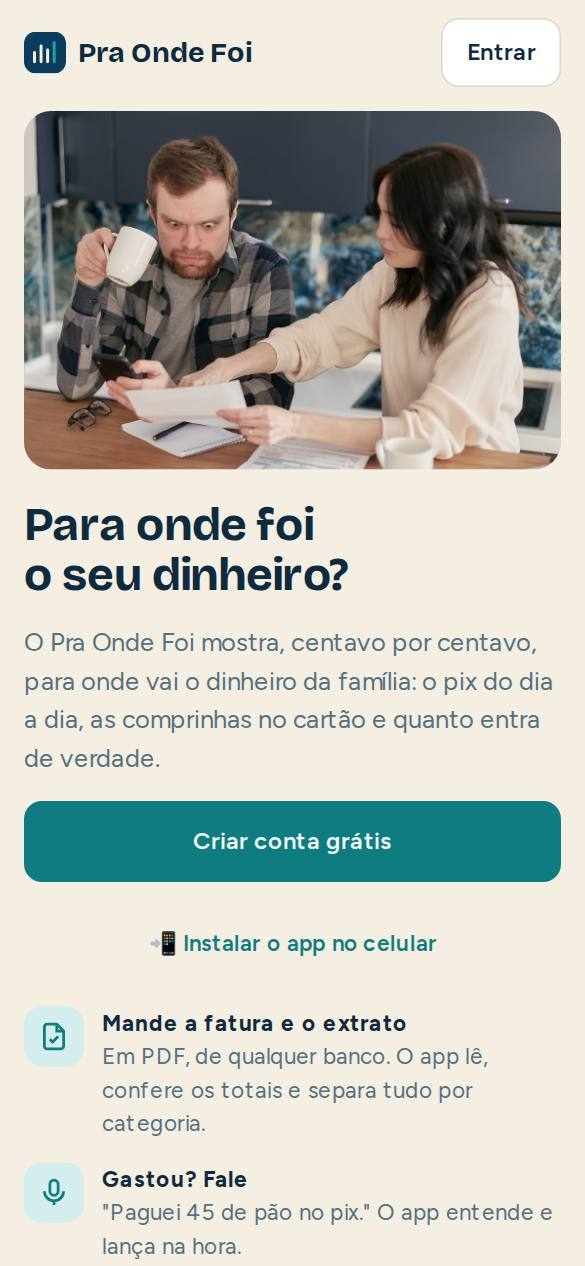
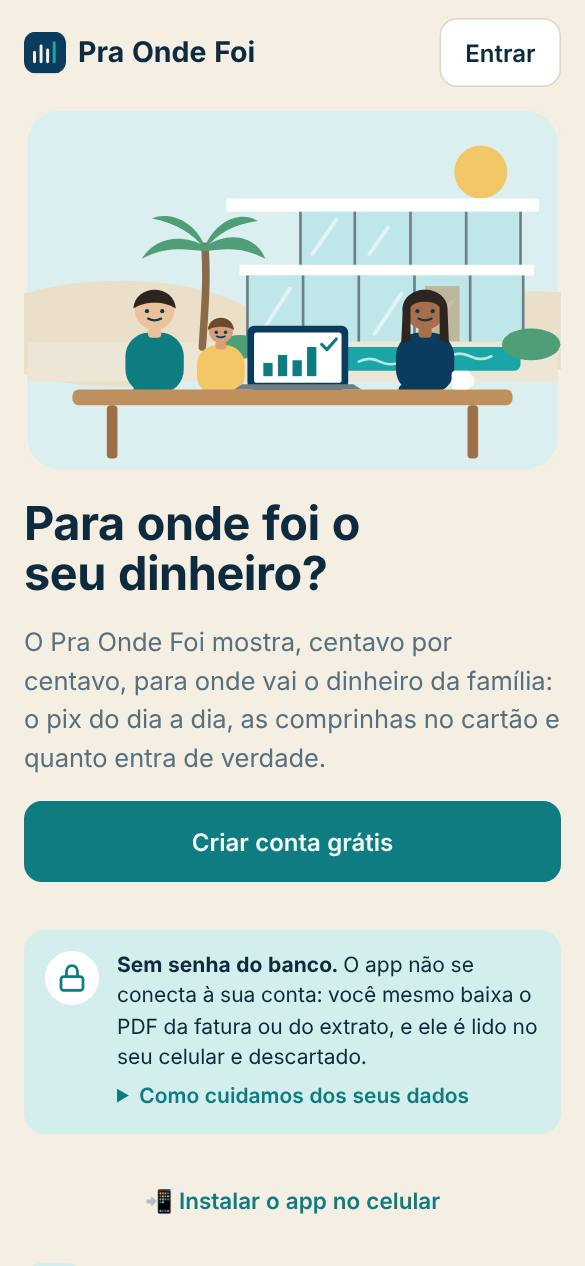
v88: trust seal (no bank password) on landing, sign in and Lançar; backlog reorganized by the study (order, merges, archived)
Claude-Session: https://claude.ai/code/session_01HTxyDPPEQrF1SknoQ9axHM

diff --git a/public/js/lib/releases.js b/public/js/lib/releases.js
@@ -259,4 +259,39 @@ export const RELEASES = [
     { id: 'selo_de_confianca', title: 'Selo de confiança na entrada: sem senha do banco', status: 'ideia', origin: 'Pesquisa de dores (nov/2026)', effort: 'P', problem: 'Só 37% compartilham dados pelo Open Finance; 56% têm medo de golpe (Lina Open X 2025)', cost: false, notes: 'Na página inicial e no primeiro Lançar: "Não pedimos senha do banco nem acesso à conta. O PDF é lido no seu celular e descartado." Com link para Sobre o app.', from: [] },
     { id: 'historico_de_outros_apps', title: 'Trazer o histórico de outros apps (Mobills, Organizze)', status: 'ideia', origin: 'Pesquisa de dores (nov/2026)', effort: 'P', problem: 'Quem desistiu de outros apps leva o histórico consigo', cost: false, notes: 'Testar a planilha com os arquivos que esses apps exportam (CSV ou Excel) e ajustar as colunas; citar na comunicação.', from: [] },
   ] },
+  { id: 'r88', version: 'v88', at: '2026-11-04T19:48:00Z', backlog: [], news: { id: 'n20261104j', title: 'Sem senha do banco, sempre', items: [
+    'O Pra Onde Foi nunca pede a senha do seu banco nem se conecta à sua conta. Agora isso aparece logo na entrada e em Lançar.',
+    'Você mesmo baixa o PDF da fatura ou do extrato no app do banco; ele é lido no seu celular e descartado.',
+  ] }, updateDocs: [DOC_DORES], updateBacklog: [
+    { id: 'selo_de_confianca', set: { status: 'feito' } },
+    { id: 'lembrete_mandar_fatura', set: { status: 'agora', ordem: 1 } },
+    { id: 'pesquisa_no_app', set: { status: 'agora', ordem: 2 } },
+    { id: 'saude_do_servidor', set: { status: 'agora', ordem: 3, title: 'Saúde do servidor e erros das rotinas automáticas na Central' } },
+    { id: 'erros_do_servidor_na_central', set: { status: 'descartado', notes: 'Juntado em "Saúde do servidor e erros das rotinas automáticas na Central".' } },
+    { id: 'historico_de_outros_apps', set: { status: 'agora', ordem: 4 } },
+    { id: 'saques_e_dinheiro_vivo', set: { status: 'agora', ordem: 5 } },
+    { id: 'retrospectiva_do_ano', set: { status: 'proximo', ordem: 1, notes: 'Pronta no começo de dezembro: motivo para voltar e compartilhar.' } },
+    { id: 'parcelas_ja_comprometidas_nos_proximos_m', set: { status: 'proximo', ordem: 2 } },
+    { id: 'juros_e_tarifas_da_fatura', set: { status: 'proximo', ordem: 3 } },
+    { id: 'previsao_do_fim_do_mes_vai_sobrar', set: { status: 'proximo', ordem: 4 } },
+    { id: 'caixa_a_revisar_que_chega_a_zero', set: { status: 'proximo', ordem: 5, title: 'Caixa "a revisar" que chega a zero, com a revisão de domingo' } },
+    { id: 'revisao_de_domingo_5_minutos', set: { status: 'descartado', notes: 'Juntado em "Caixa a revisar que chega a zero, com a revisão de domingo".' } },
+    { id: 'gastos_anuais_previstos_ipva_iptu_matric', set: { status: 'proximo', ordem: 6, notes: 'Antes de janeiro.' } },
+    { id: 'resultado_antes_da_conta', set: { status: 'proximo', ordem: 7, notes: 'Depois de ouvir os primeiros testadores.' } },
+    { id: 'meu_seu_nosso_lancamentos_e_contas_priva', set: { status: 'proximo', ordem: 8 } },
+    { id: 'revisao_de_custos_planos', set: { status: 'proximo', ordem: 9 } },
+    { id: 'e_mail_proprio_resend_e_religar_confirma', set: { status: 'depois', ordem: 1, notes: 'Antes de abrir ao público: o limite de e-mails do Supabase impede crescer.' } },
+    { id: 'notificacoes_do_banco_android', set: { status: 'depois', ordem: 2, notes: 'Primeiro passo: o teste com o MacroDroid.' } },
+    { id: 'lancamento_automatico_pelas_notificacoes', set: { status: 'descartado', notes: 'Duplicado de "Lançamento automático pelas notificações do banco (Android)".' } },
+    { id: 'macrodroid_teste_notificacoes', set: { status: 'depois', ordem: 3 } },
+    { id: 'lancar_pelo_email_do_banco', set: { status: 'depois', ordem: 4 } },
+    { id: 'whatsapp_lancar', set: { status: 'depois', ordem: 5 } },
+    { id: 'open_finance_dados_automaticos_do_banco', set: { status: 'depois', ordem: 6 } },
+    { id: 'app_nas_lojas_play_store_app_store', set: { status: 'depois', ordem: 7 } },
+    { id: 'versao_web_mais_simples', set: { status: 'depois', ordem: 8 } },
+    { id: 'plano_pago_modelo_de_negocio', set: { status: 'depois', ordem: 9 } },
+    { id: 'cobranca_honesta_teste_sem_cartao_aviso_', set: { status: 'depois', ordem: 10 } },
+    { id: 'parcerias_e_servicos', set: { status: 'depois', ordem: 11 } },
+    { id: 'encaminhar_a_fatura_por_e_mail', set: { status: 'descartado', notes: 'Arquivado: conflita com a regra de não guardar o PDF e com faturas com senha.' } },
+  ] },
 ];

diff --git a/public/index.html b/public/index.html
@@ -36,6 +36,12 @@ try { var t = localStorage.getItem('fin.theme') || 'light'; if (t !== 'auto') do
   <h1>Para onde foi o seu dinheiro?</h1>
   <p class="lead">O Pra Onde Foi mostra, centavo por centavo, para onde vai o dinheiro da família: o pix do dia a dia, as comprinhas no cartão e quanto entra de verdade.</p>
   <div class="land-cta"><button class="btn primary" type="button" id="wSignup">Criar conta grátis</button></div>
+  <div class="trust" id="wTrust"><span class="trust-ico"><svg viewBox="0 0 24 24" width="22" height="22" fill="none" stroke="currentColor" stroke-width="2" stroke-linecap="round" stroke-linejoin="round" aria-hidden="true"><rect x="4" y="11" width="16" height="10" rx="2"/><path d="M8 11V7a4 4 0 0 1 8 0v4"/></svg></span><div><strong>Sem senha do banco.</strong> O app não se conecta à sua conta: você mesmo baixa o PDF da fatura ou do extrato, e ele é lido no seu celular e descartado.
+    <details><summary>Como cuidamos dos seus dados</summary><ul>
+      <li>Nunca pedimos a senha do banco nem acesso à conta (não usamos Open Finance).</li>
+      <li>O arquivo da fatura, a senha do PDF e as fotos não são guardados.</li>
+      <li>Os lançamentos ficam só com a sua família, e dá para apagar tudo quando quiser.</li>
+      <li>Se alguém pedir a senha do seu banco em nome do Pra Onde Foi, não é o app.</li></ul></details></div></div>
   <button class="linkbtn" type="button" id="wInstall" hidden>📲 Instalar o app no celular</button>
   <ul class="land-feats">
     <li><span class="fi"><svg viewBox="0 0 24 24" fill="none" stroke="currentColor" stroke-width="2"><path d="M14 3H7a2 2 0 0 0-2 2v14a2 2 0 0 0 2 2h10a2 2 0 0 0 2-2V8z"/><path d="M14 3v5h5M9 14l2 2 4-4"/></svg></span><span><strong>Mande a fatura e o extrato</strong><br>Em PDF, de qualquer banco. O app lê, confere os totais e separa tudo por categoria.</span></li>
@@ -43,7 +49,7 @@ try { var t = localStorage.getItem('fin.theme') || 'light'; if (t !== 'auto') do
     <li><span class="fi"><svg viewBox="0 0 24 24" fill="none" stroke="currentColor" stroke-width="2"><path d="M4 20V10M10 20V4M16 20v-7M22 20H2"/></svg></span><span><strong>Veja quanto sobra</strong><br>Quanto entrou, quanto saiu e para onde foi, mês a mês.</span></li>
     <li><span class="fi"><svg viewBox="0 0 24 24" fill="none" stroke="currentColor" stroke-width="2"><circle cx="9" cy="8" r="3"/><circle cx="17" cy="9" r="2.5"/><path d="M3 20a6 6 0 0 1 12 0M14 20a4 4 0 0 1 7 0"/></svg></span><span><strong>Use em família</strong><br>Convide quem divide as contas com um link no WhatsApp.</span></li>
   </ul>
-  <p class="tiny muted" style="text-align:center">Seus dados ficam só com a sua família. PDFs e senhas não são guardados.</p>
+  <p class="tiny muted" style="text-align:center">Seus dados ficam só com a sua família. Funciona com qualquer banco.</p>
 </section>
 
 <!-- ENTRAR -->
@@ -51,6 +57,7 @@ try { var t = localStorage.getItem('fin.theme') || 'light'; if (t !== 'auto') do
   <button class="tour-skip" type="button" id="aBack" style="align-self:flex-start">← Voltar</button>
   <div class="brandbig">Pra Onde Foi</div>
   <p class="muted">Entre ou crie sua conta para começar.</p>
+  <p class="trust-line small" id="aTrust"><svg viewBox="0 0 24 24" width="16" height="16" fill="none" stroke="currentColor" stroke-width="2" stroke-linecap="round" stroke-linejoin="round" aria-hidden="true"><rect x="4" y="11" width="16" height="10" rx="2"/><path d="M8 11V7a4 4 0 0 1 8 0v4"/></svg> Nunca pedimos a senha do seu banco.</p>
   <div class="banner ok" id="aInvite" hidden></div>
   <form class="panel stack" id="authForm" novalidate>
     <div class="chips" role="tablist">

diff --git a/public/js/admin/content.js b/public/js/admin/content.js
@@ -35,6 +35,7 @@ export const SERVICES = [
   sv('split', 'Quem paga o quê', 'Quanto cada um pagou e o acerto do mês', 'Menu → Quem paga o quê', 'no_ar', 'gratis', 'nao', '—', ['menu.divisao']),
   sv('fam', 'Família e convites', 'Convite pelo WhatsApp; todos veem os mesmos números', 'Menu → Família', 'no_ar', 'gratis', 'nao', 'Supabase Auth', ['menu.familia']),
   sv('push', 'Notificações', 'Um aviso por dia no máximo e resumo de domingo; avisos da família', 'Menu → Notificações', 'no_ar', 'gratis', 'nao', 'Web Push; Vercel Cron', ['menu.avisos', 'aviso.tocou', 'avisos.ligou', 'avisos.teste_chegou', 'avisos.teste_nao_chegou', 'avisos.teste_nao_mostrou', 'avisos.teste_bloqueado']),
+  sv('confianca', 'Selo "sem senha do banco"', 'Deixa claro, logo na entrada, que o app não se conecta ao banco nem pede a senha: o PDF é lido no celular e descartado (a 2ª maior dor da pesquisa)', 'Página inicial, tela de entrar e Lançar → Fatura ou extrato', 'no_ar', 'gratis', 'nao', 'Nenhuma', []),
   sv('push_convite', 'Convite para ligar as notificações', 'Se as notificações estão desligadas ou bloqueadas no celular, o app avisa (1 vez por dia, até 7 vezes, ao abrir ou voltar do bloqueio) e leva para Notificações; o menu mostra "Desligadas"', 'Pop-up ao abrir o app; menu ☰', 'no_ar', 'gratis', 'nao', 'Estado do Web Push no próprio aparelho', ['avisos.convite_sim', 'avisos.convite_nao']),
   sv('priv', 'Modo privacidade', 'Esconde todos os valores', 'Olho no topo', 'no_ar', 'gratis', 'nao', '—', ['privacidade']),
   sv('pat', 'Patrimônio e dívidas', 'Investimentos, bens, financiamentos e projeção do sonho', 'Menu → Patrimônio', 'no_ar', 'gratis', 'nao', '—', ['menu.patrimonio']),

diff --git a/public/js/admin/admin.js b/public/js/admin/admin.js
@@ -223,7 +223,7 @@ function backlog(el) {
       <div><button class="btn primary" type="button" id="nAdd">Adicionar</button></div></div></details>
     ${view === 'lista' ? `<div class="chips">${[['', 'Todos'], ...Object.entries(STATUS), ['bug', 'Bugs']].map(([k, v]) => `<button class="chip" type="button" data-f="${k}" aria-pressed="${filter === k}">${v} <span class="tiny muted">${k === 'bug' ? items.filter(i => i.tipo === 'bug').length : k ? items.filter(i => i.status === k).length : items.length}</span></button>`).join('')}</div>
       <div class="blist">${shown.map(rowHTML).join('') || '<p class="small muted">Nada aqui.</p>'}</div>`
-    : `<div class="kanban">${['agora', 'proximo', 'ideia', 'depois', 'feito'].map(s => `<section class="kcol"><h3>${STATUS[s]} <span class="tiny muted">${items.filter(i => i.status === s).length}</span></h3>${items.filter(i => i.status === s).map(cardHTML).join('')}</section>`).join('')}</div>`}`;
+    : `<div class="kanban">${['agora', 'proximo', 'ideia', 'depois', 'feito'].map(s => `<section class="kcol"><h3>${STATUS[s]} <span class="tiny muted">${items.filter(i => i.status === s).length}</span></h3>${items.filter(i => i.status === s).sort((a, b) => (a.ordem ?? 99) - (b.ordem ?? 99)).map(cardHTML).join('')}</section>`).join('')}</div>`}`;
   el.querySelectorAll('[data-v]').forEach(b => b.onclick = () => { view = b.dataset.v; backlog(el); });
   el.querySelectorAll('[data-f]').forEach(b => b.onclick = () => { filter = b.dataset.f; backlog(el); });
   el.querySelectorAll('[data-st]').forEach(s => s.onchange = async e => {

diff --git a/public/js/lib/docsections.js b/public/js/lib/docsections.js
@@ -118,5 +118,11 @@ export const DOC_DORES = { id: 'pesquisa_dores', title: 'Pesquisa: as dores de q
 - "Funciona com qualquer banco e nunca pede a senha do banco."
 - "Todas as faturas de todos os cartões num lugar só, e o quanto sobrou no mês."
 - "Quanto dá para gastar por dia até a fatura fechar."
+## Feito a partir do estudo
+- v88: selo "sem senha do banco" na página inicial, na tela de entrar e em Lançar.
+## Ordem do backlog (aprovada em 04/11/2026)
+- Agora: lembrete para mandar a fatura, pesquisa no app, saúde do servidor, histórico de outros apps, saques e dinheiro vivo.
+- Próximo: retrospectiva do ano (começo de dezembro), parcelas comprometidas, juros da fatura, previsão do fim do mês, caixa a revisar, gastos anuais (antes de janeiro), resultado antes da conta, meu-seu-nosso, revisão de custos.
+- Depois: e-mail próprio (antes de abrir ao público), notificações do banco, e-mail do banco, WhatsApp, Open Finance, lojas, versão web, plano pago, cobrança honesta, parcerias.
 ## Ideias que foram para o backlog
 Lembrete para mandar a fatura quando ela fecha; juros e tarifas da fatura em destaque; saques e dinheiro vivo; ver o resultado antes de criar a conta; selo de confiança na entrada; trazer o histórico de outros apps. As parcelas já comprometidas (já no backlog) ganharam peso com a pesquisa.` };

diff --git a/public/js/lib/testbook.js b/public/js/lib/testbook.js
@@ -31,6 +31,9 @@ export const TESTS = [
   t('o_que_mandar', 'Lançar', 'v84', 'ambos', 'Fica claro que dá para mandar vários arquivos e planilha',
     ['Lançar: veja o botão Fatura ou extrato.', 'Toque nele e leia a caixa "O que dá para mandar".', 'Toque em "Como marcar vários arquivos no celular?" e siga o passo do seu celular.'],
     'O botão tem o selo "Vários de uma vez"; a caixa mostra faturas, extrato, planilha e foto; dá para marcar vários arquivos no seletor e a fila mostra "Arquivo 1 de N".', true),
+  t('selo_confianca', 'Lançar', 'v88', 'ambos', 'Selo "sem senha do banco"',
+    ['Saia da conta e veja a página inicial.', 'Toque em "Como cuidamos dos seus dados".', 'Toque em Entrar.', 'Já dentro, abra Lançar → Fatura ou extrato.'],
+    'A página inicial mostra o selo com o cadeado e os 4 cuidados; a tela de entrar diz "Nunca pedimos a senha do seu banco"; Lançar repete que o arquivo é lido no celular e descartado.', true),
   t('anotacao', 'Extrato', 'v59', 'ambos', 'Anotar um lançamento e o app lembrar',
     ['Extrato → Anotar num lançamento → escreva e marque "lembrar".', 'Mande a fatura do mês seguinte.'],
     'Na revisão, o mesmo lançamento já vem anotado; a busca acha pela anotação.', true),

diff --git a/public/sw.js b/public/sw.js
@@ -1,6 +1,6 @@
 // Service worker: caches the app shell so it opens fast and installs as an app.
 // Data and /api calls always go to the network.
-const VERSION = 'v87';
+const VERSION = 'v88';
 const SHELL = ['/', '/index.html', '/css/app.css', '/js/main.js', '/js/db.js', '/js/ai.js', '/js/ui.js', '/js/state.js', '/js/speech.js', '/js/tour.js', '/js/steps.js', '/js/onboarding.js', '/js/art.js', '/js/install.js', '/js/push.js', '/js/metrics.js', '/js/privacy.js', '/js/lib/recurring.js', '/js/lib/settle.js', '/js/photos.js', '/js/menu.js', '/js/coach.js', '/js/views/graficos.js', '/js/views/fechar.js', '/js/lib/closing.js', '/js/lib/charts.js', '/js/lib/receipt.js', '/js/lib/insights.js', '/js/lib/budget.js', '/js/lib/pricing.js', '/js/lib/faq.js', '/js/feedback.js', '/js/usage.js', '/js/lib/navlog.js', '/js/applepay.js', '/js/lib/quick.js', '/js/lib/feed.js', '/js/messages.js', '/js/lib/news.js',
   '/js/lib/format.js', '/js/lib/calc.js', '/js/lib/categorize.js', '/js/lib/parse.js', '/js/lib/validate.js',
   '/js/views/resumo.js', '/js/views/lancar.js', '/js/views/perguntar.js', '/js/views/extrato.js', '/js/views/ajustes.js',

diff --git a/public/css/app.css b/public/css/app.css
@@ -602,3 +602,13 @@ label.consent[hidden]{display:none}
 @media (prefers-reduced-motion:reduce){.mchev{transition:none}}
 .mergecard{padding:12px 14px;border-radius:12px;background:var(--sunk);display:flex;flex-direction:column;gap:8px}.mergecard p{margin:0}
 .shcols{display:grid;grid-template-columns:repeat(auto-fit,minmax(150px,1fr));gap:8px}
+
+/* Trust seal: "sem senha do banco" (landing, sign in, Lançar) */
+.trust{display:flex;gap:12px;align-items:flex-start;margin:16px 0 4px;padding:14px;border-radius:var(--r);background:var(--accent-soft);color:var(--ink);font-size:14px;line-height:1.45;text-align:left}
+.trust .trust-ico{flex:none;width:36px;height:36px;border-radius:50%;background:var(--card);color:var(--accent);display:flex;align-items:center;justify-content:center}
+.trust > div{min-width:0}
+.trust details{margin-top:6px}
+.trust summary{color:var(--accent);font-weight:600;cursor:pointer}
+.trust ul{margin:6px 0 0;padding-left:18px;display:flex;flex-direction:column;gap:4px}
+.trust-line{display:flex;align-items:center;gap:6px;margin:4px 0 0;color:var(--accent);font-weight:600}
+.trust-line svg{flex:none}

diff --git a/public/js/views/lancar.js b/public/js/views/lancar.js
@@ -84,6 +84,7 @@ function build(el) {
         <li><b>Foto ou print</b><span>de fatura, extrato ou comprovante</span></li>
       </ul>
       <p class="tiny muted">Mandou vários? O app lê um por vez, numa fila, e você revisa cada um. PDF com senha também funciona: o app pede a senha e não a guarda.</p>
+      <p class="trust-line small" id="lTrust"><svg viewBox="0 0 24 24" width="16" height="16" fill="none" stroke="currentColor" stroke-width="2" stroke-linecap="round" stroke-linejoin="round" aria-hidden="true"><rect x="4" y="11" width="16" height="10" rx="2"/><path d="M8 11V7a4 4 0 0 1 8 0v4"/></svg> Sem senha do banco: o arquivo é lido neste celular e descartado.</p>
     </div>
     <div class="drop" id="drop" style="margin-top:12px">
       <svg viewBox="0 0 24 24" width="28" height="28" fill="none" stroke="currentColor" stroke-width="2" aria-hidden="true"><path d="M14 3H7a2 2 0 0 0-2 2v14a2 2 0 0 0 2 2h10a2 2 0 0 0 2-2V8z"/><path d="M14 3v5h5M12 18v-6M9 15l3-3 3 3"/></svg>

diff --git a/public/js/usage.js b/public/js/usage.js
@@ -5,7 +5,7 @@ import * as db from './db.js';
 import { S } from './state.js';
 import { tapCell, tapLabel, cleanError } from './lib/navlog.js';
 
-export const APP_VERSION = 'v87';
+export const APP_VERSION = 'v88';
 const OK = /^[a-z_]{2,20}(\.[a-z_]{2,20})?$/;
 export const device = () => { const u = navigator.userAgent; return (/iphone|ipad/i.test(u) ? 'iPhone' : /android/i.test(u) ? 'Android' : /mac/i.test(u) ? 'Mac' : /windows/i.test(u) ? 'Windows' : 'Outro') + (window.matchMedia?.('(display-mode: standalone)').matches || navigator.standalone ? ' · app instalado' : ' · navegador'); };
 export const screenOf = () => S.tab === 'ajustes' ? 'menu.' + (S.sec || 'familia') : S.tab === 'resumo' ? 'inicio' : (S.tab || '');
